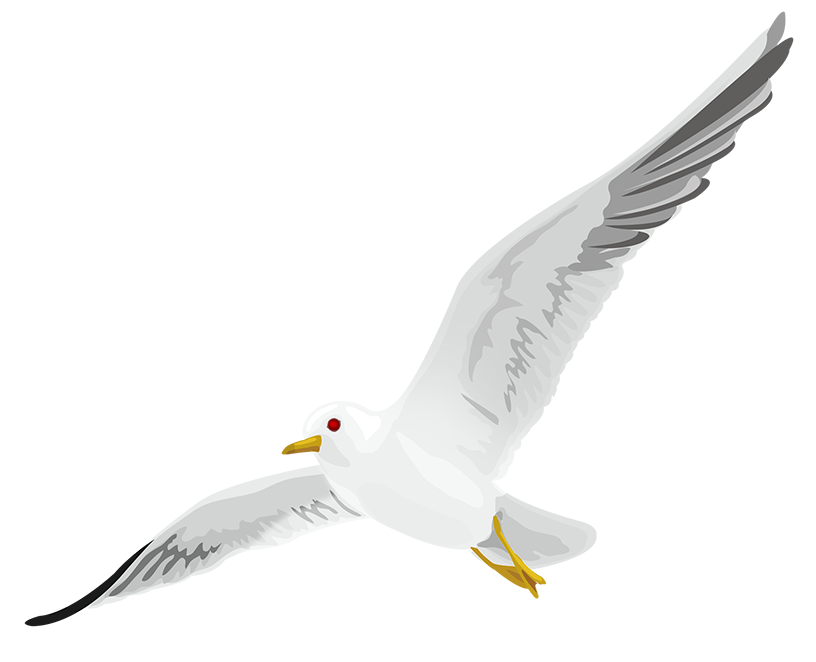
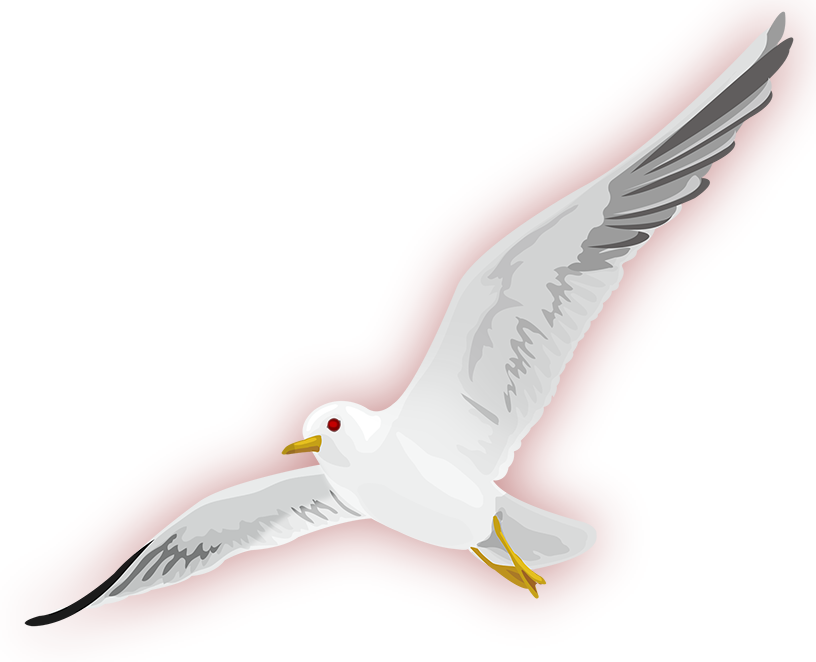
added demonSeagull

Changed region(s): [[0.0919, 0.0302, 0.9804, 0.9366]]

diff --git a/scenes/Game.js b/scenes/Game.js
@@ -1,12 +1,12 @@
 import Phaser from "phaser";
 import Tomato from "../sprites/Tomato";
-import City from "../images/cityGrey.png";
+import City from "../images/cityDark.png";
 import Sky from "../images/sky4.jpg";
 import TomatoImg from "../images/tomato.png";
 import RatImg from "../images/rat3.png";
 import Rat from "../sprites/Rat";
 import Ground from "../images/ground2.png";
-import SeagullImg from "../images/seagull.png";
+import SeagullImg from "../images/demonSeagull2.png";
 import Seagull from "../sprites/Seagull";
 
 class Game extends Phaser.Scene {
